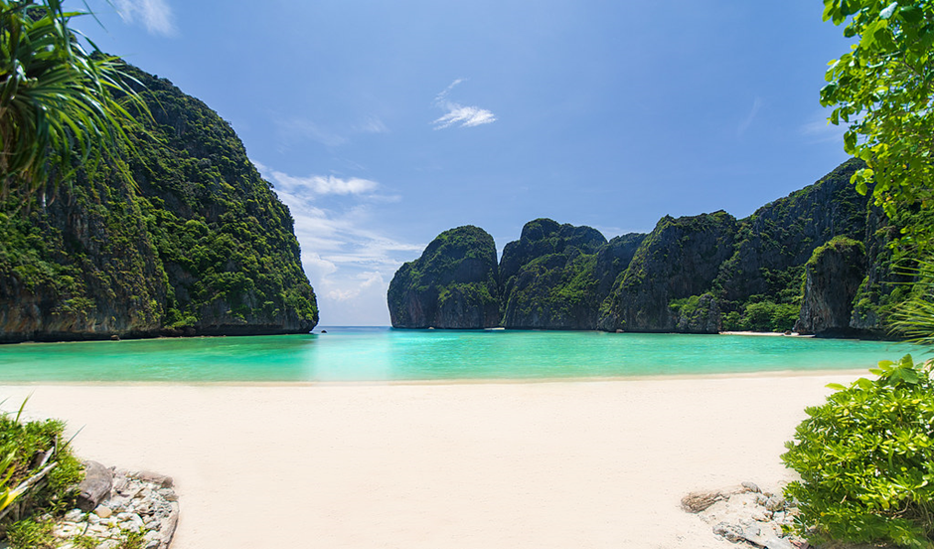
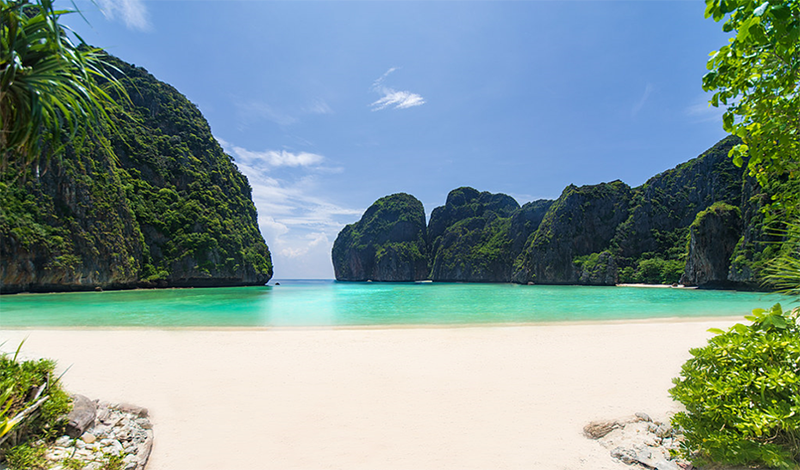
tromso content updated

diff --git a/tramso.html b/tramso.html
@@ -42,25 +42,27 @@
   <main>
     <section id = "hero">
       <h1 >Tromsø</h1>
-      <img src="./img/stowe.jpg" class = "center">
+      <img src="./img/tromso.jpg" class = "center">
     </section >
       <article id = "scroll">
-        <h3>Experience Skiing in The Green Mountains</h3>
-         <p> <br><br>Stowe is a town in Lamoille County, Vermont, United States. The population
-           was 4,314 at the 2010 census. The town lies on Vermont Route 108, locally known as 
-           the Mountain Road. It is nicknamed 'The Ski Capital of the East' and is home to Stowe 
-           Mountain Resort, a ski facility with terrain on Mount Mansfield and Spruce Peak.
+        <h3>Beautiful Norway</h3>
+         <p> <br><br>See the Northern Lights--Tromsø’s northern location makes it perfect for seeing 
+          the Northern Lights, and it is actually one of the places with the highest probability of 
+          experiencing them. Local tour operators offer many types of excursions to give the best possible 
+          chances of seeing this incredible phenomenon depending on conditions and the time of year.
 
-          <br><br>Only Stowe, Vermont combines a classic 200-year-old village with the natural 
-          beauty and serenity of Mt. Mansfield, Vermont's highest peak. This unique juxtaposition 
-          imbues Stowe with a character reminiscent of great European mountain resorts. A true 
-          four-season destination of international renown, Stowe offers endless opportunities to 
-          enjoy the outdoors, from summer activities to world-class skiing, and scores of unique 
-          ways to “Escape the Ordinary.” Visitors searching for great quality and value will find 
-          it in Stowe’s 60+ unique shops, 40+ restaurants, and dozens of different lodging 
-          establishments, ranging from full-service resort spas to quaint bed and breakfasts and 
-          country inns. Virtually all are locally owned, for a refreshing change.
 
+          <br><br>Check out traditional and modern Norway--Tromsø has close links to both modern and 
+          traditional Norway. It has everything from the northernmost gay pride parade in the world to 
+          close links with the local Sami reindeer herders, the original, nomadic peoples of Norway, Sweden, 
+          and Finland. It still thrives off traditional fishing but also has a huge military base. These 
+          odd mixes make Tromsø a very interesting place from which to explore Norwegian culture.
+
+          <br><br>Plenty of native wildlife--The Sami village in Tromsø allows visitors to get up close and 
+          personal with reindeer, a quintessential part of the Arctic landscape. Tromsø also has numerous whale 
+          safaris, as whales, and in particular sperm whales, visit the Norwegian coast every year. The Polar Park 
+          leaves a safe distance between you and some of the more dangerous animals of the Arctic including 
+          wolves, bears, muskoxen, and lynx.
           
         </p>
       </article>
@@ -78,18 +80,18 @@
           <li>Spring</li>
           <li>Summer</li>
           <li>Fall</li>
-          <li> Hi 20 -- Low 4</li>
-          <li> Hi 51 -- Low 25</li>
-          <li> Hi 66 -- Low 47</li>
-          <li> Hi 57 -- Low 20</li>
+          <li> Hi 32 -- Low 22</li>
+          <li> Hi 48 -- Low 25</li>
+          <li> Hi 62 -- Low 44</li>
+          <li> Hi 51 -- Low 28</li>
 
         </ul>
       </section>
       <section id = "events">
         <ul> 
           <h2>Annual Events</h2>
-          <li><a href = "https://gostowe.com/events/">
-            Festivals and Events</a></li>
+          <li><a href = "https://theculturetrip.com/europe/norway/articles/10-reasons-you-should-visit-tromso-before-oslo/">
+            10 Reasons to Visit</a></li>
             <li><br></li>
             <li><br></li>
             <li><br></li>
@@ -98,8 +100,9 @@
       <section id = "links">
         <ul> 
           <h2>Links</h2>
-          <li><a href = "https://gostowe.com/">Info For All Seasons</a></li>
-          <li><a href = "https://www.stowe.com/">Vistor Info</a></li>
+          <li><a href = "https://www.tripadvisor.com/Tourism-g190475-Tromso_Troms_Northern_Norway-Vacations.html
+            ">Trip Advisor--Tromsø</a></li>
+          <li><a href = "https://www.lonelyplanet.com/norway/northern-norway/tromso">Lonely Planet--Tromsø</a></li>
           <li><br></li>
           <li><br></li>
         </ul>

diff --git a/phuket.html b/phuket.html
@@ -42,7 +42,7 @@
   <main>
     <section id = "hero">
       <h1 >Phuket</h1>
-      <img src="./img/los-angeles-sunset-small.jpg" class = "center">
+      <img src="./img/phuket.png" class = "center">
     </section >
       <article id = "scroll">
         <h3>Paradise in Phuket Thailand</h3>
@@ -99,30 +99,30 @@
           <li>Spring</li>
           <li>Summer</li>
           <li>Fall</li>
-          <li> Hi 70 -- Low 50</li>
-          <li> Hi 74 -- Low 58</li>
-          <li> Hi 84 -- Low 66</li>
-          <li> Hi 80 -- Low 60</li>
+          <li> Hi 89 -- Low 73</li>
+          <li> Hi 90 -- Low 75</li>
+          <li> Hi 87 -- Low 74</li>
+          <li> Hi 88 -- Low 73</li>
 
         </ul>
       </section>
       <section id = "events">
         <ul> 
           <h2>Annual Events</h2>
-          <li><a href = "https://theculturetrip.com/north-america/usa/california/articles/la-s-9-best-annual-events/">
-            Culture Trip -- 9 Best</a></li>
-          <li><a href = "https://www.welikela.com/month-by-month-los-angeles-events/">
-            We Like LA Top 10</a></li>
-          <li><a href = "https://www.timeout.com/los-angeles/features/182/festivals-events-in-los-angeles">Festivals</a></li>
-          <li><a href = "https://www.latimes.com/about/events/">LA Times Events Section</a></li>
+          <li><a href = "https://www.phuket101.net/phuket-events-calendar/">
+            Phuket 101 Events</a></li>
+          <li><a href = "https://www.thai2siam.com/phuket/events-and-festival">Festivals</a></li>
+          <li><a href = "travelphuket.com/festivals.html">Travel Phuket</a></li>
+          <li><br></li>
         </ul>
       </section>
       <section id = "links">
         <ul> 
           <h2>Links</h2>
-          <li><a href = "https://www.discoverlosangeles.com">Discover LA</a></li>
-          <li><a href = "https://www.lamag.com">LA Magazine</a></li>
-          <li><a href = "http://luckyboyburgers.com/">Lucky Boy Burgers</a></li>
+          <li><a href = "https://blog.ihg.com/ultimate-guide-visiting-phuket">Visitor's Guide</a></li>
+          <li><a href = "https://www.willflyforfood.net/the-first-timers-travel-guide-to-phuket-thailand/">First Visit Guide</a></li>
+          <li><a href = "https://homeiswhereyourbagis.com/en/23-tips-that-will-make-your-phuket-trip-a-blast/">23 Tips for Visitors</a></li>
+          <li><br></li>
         </ul>
       </section>
     </section>
